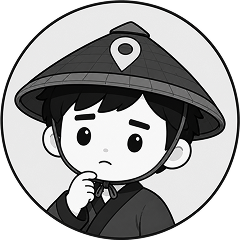
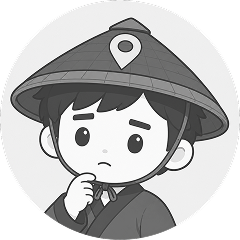
협찬 없음 빈 상태에 제보하기 버튼 추가, 안내 이미지 교체

diff --git a/style.css b/style.css
@@ -1212,6 +1212,13 @@ body.pc-report-mode .holiday-checkbox.active {
 }
 .empty-img { width: 80px; height: 80px; object-fit: contain; }
 .empty-state p { font-size: 16px; font-weight: 400; color: #777; line-height: 1.5; }
+.empty-state-btn {
+  width: 120px; height: 40px;
+  background: #e82a2d; color: #fff;
+  font-size: 16px; font-weight: 700;
+  border: none; border-radius: 8px;
+  cursor: pointer;
+}
 
 /* ===== 실시간 제보 알림 캐릭터 ===== */
 .live-alert {

diff --git a/app.js b/app.js
@@ -602,6 +602,7 @@ function renderSidebar() {
       <div class="empty-state">
         <img src="image/img_list_80.png" alt="" class="empty-img">
         <p>모집 중인 협찬이 없어요.<br>첫번째로 제보해 보세요!</p>
+        <button class="empty-state-btn" onclick="openModal()">제보하기</button>
       </div>`;
     return;
   }
